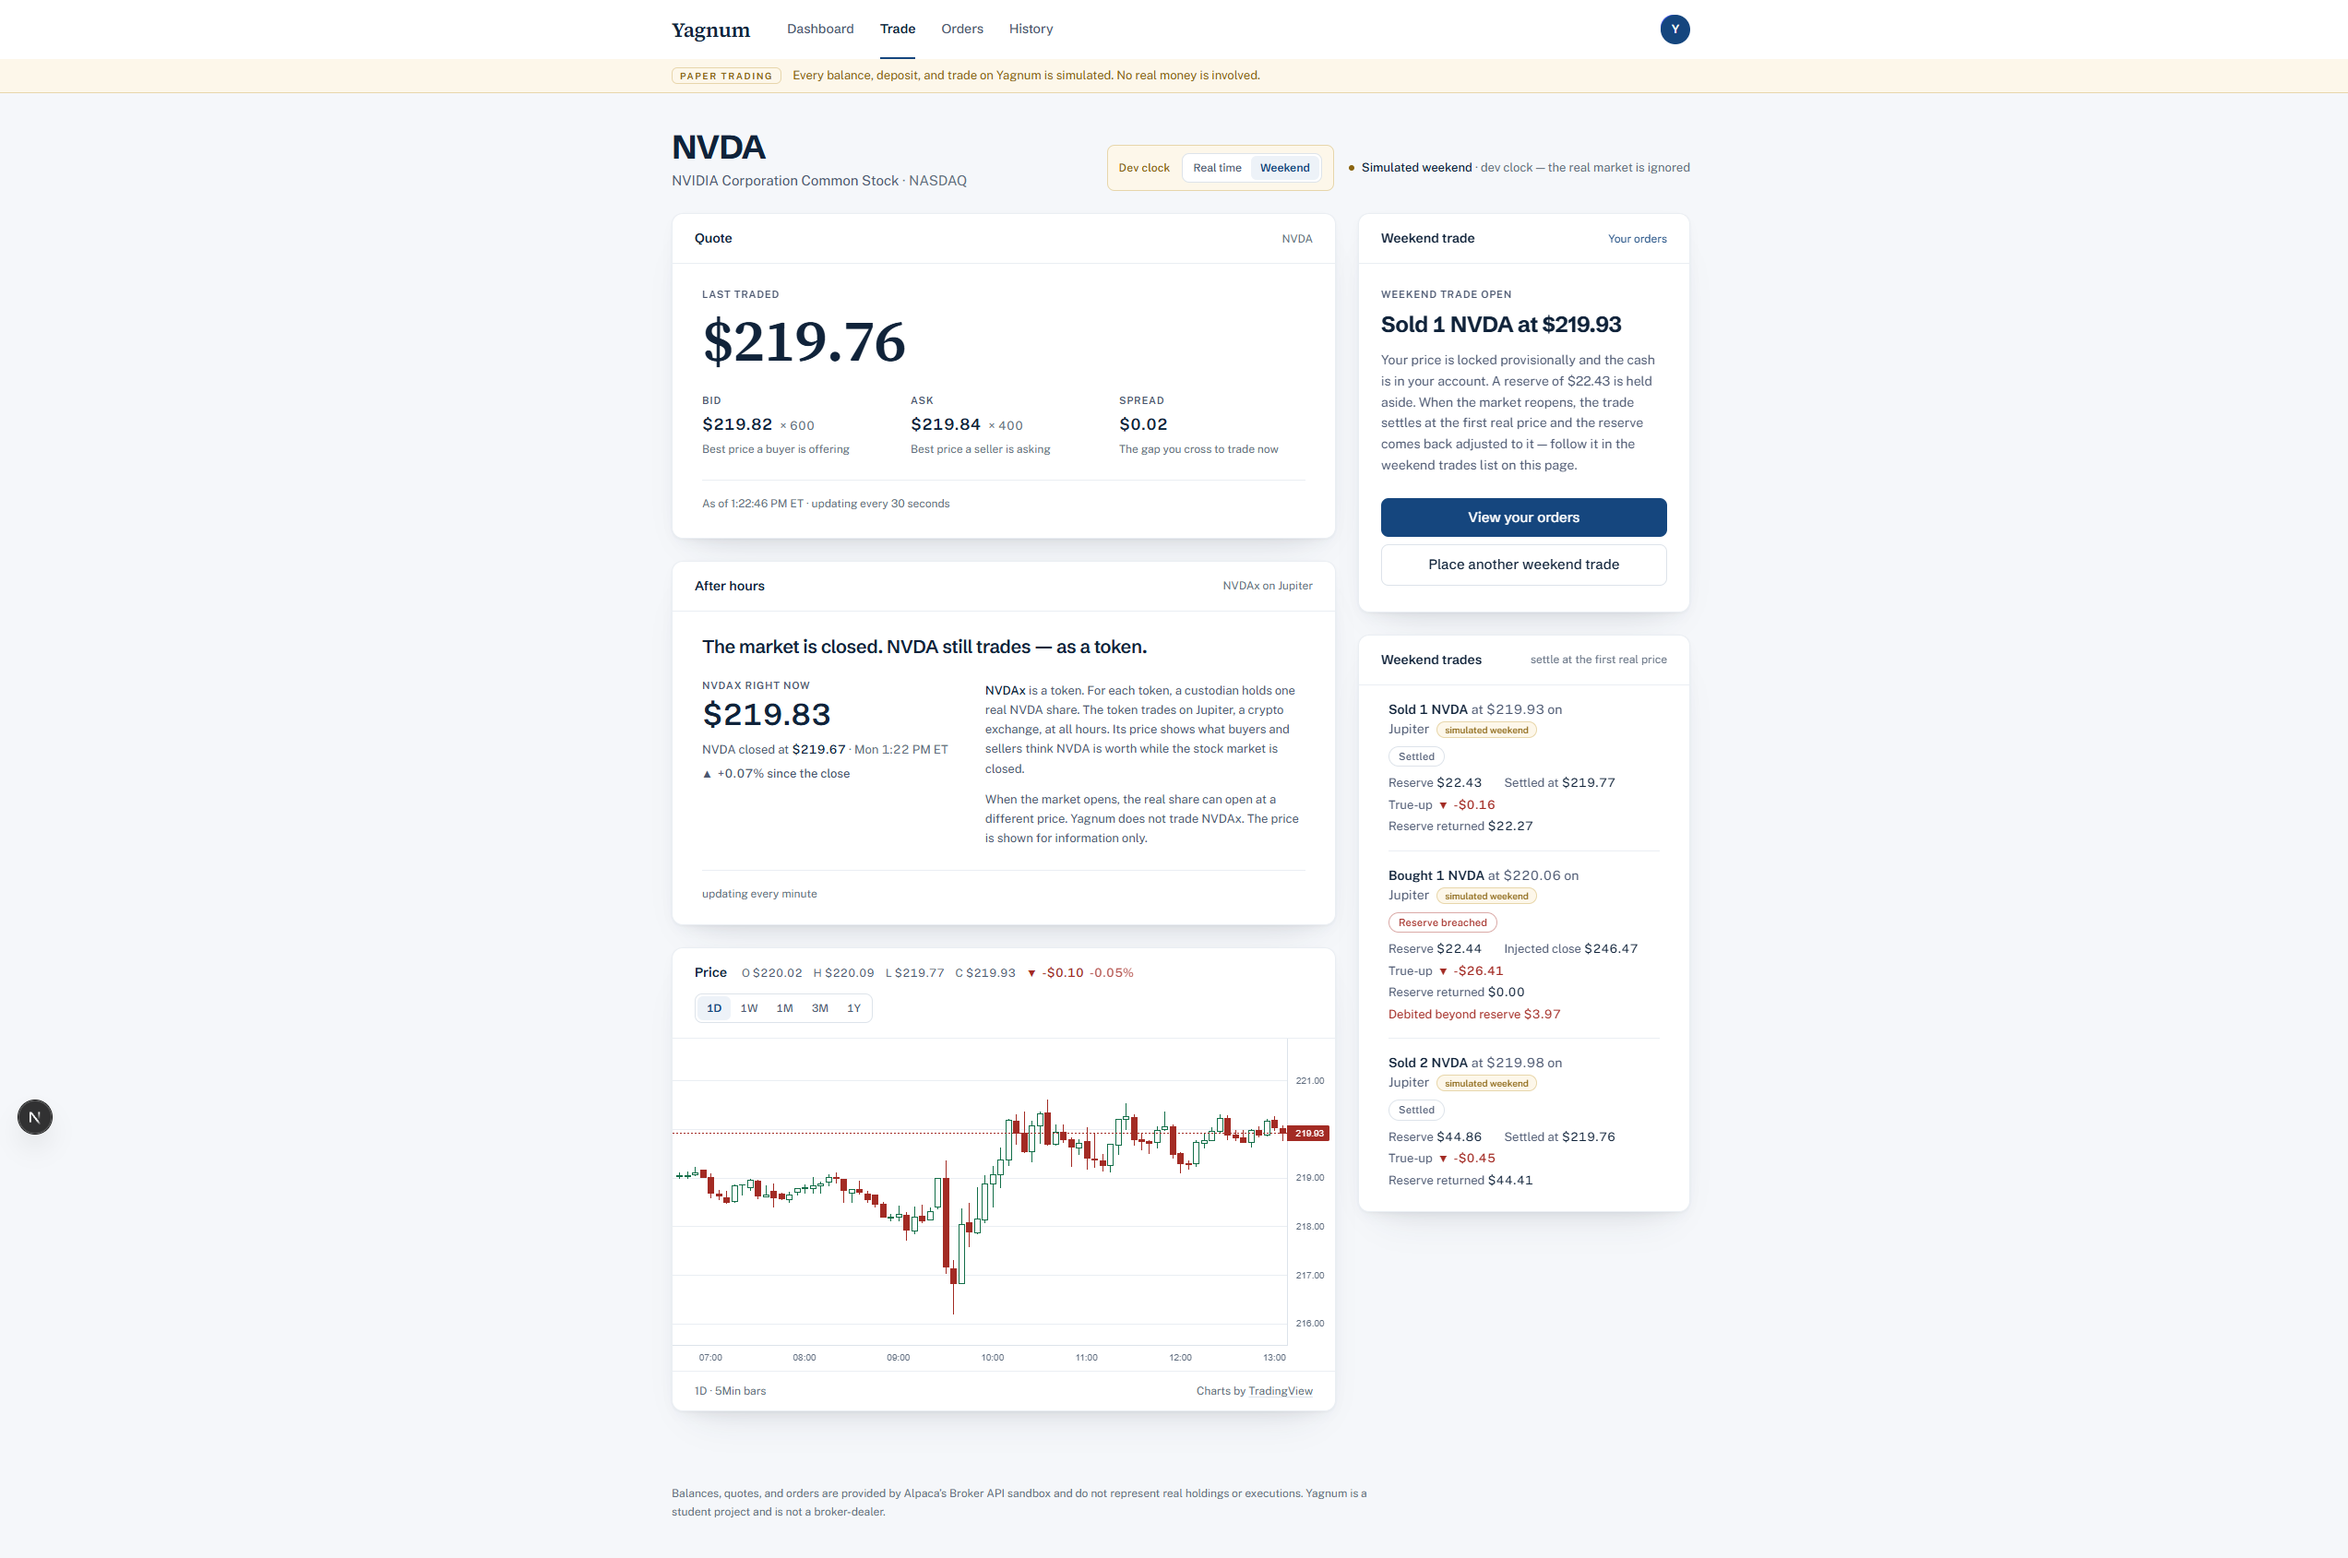
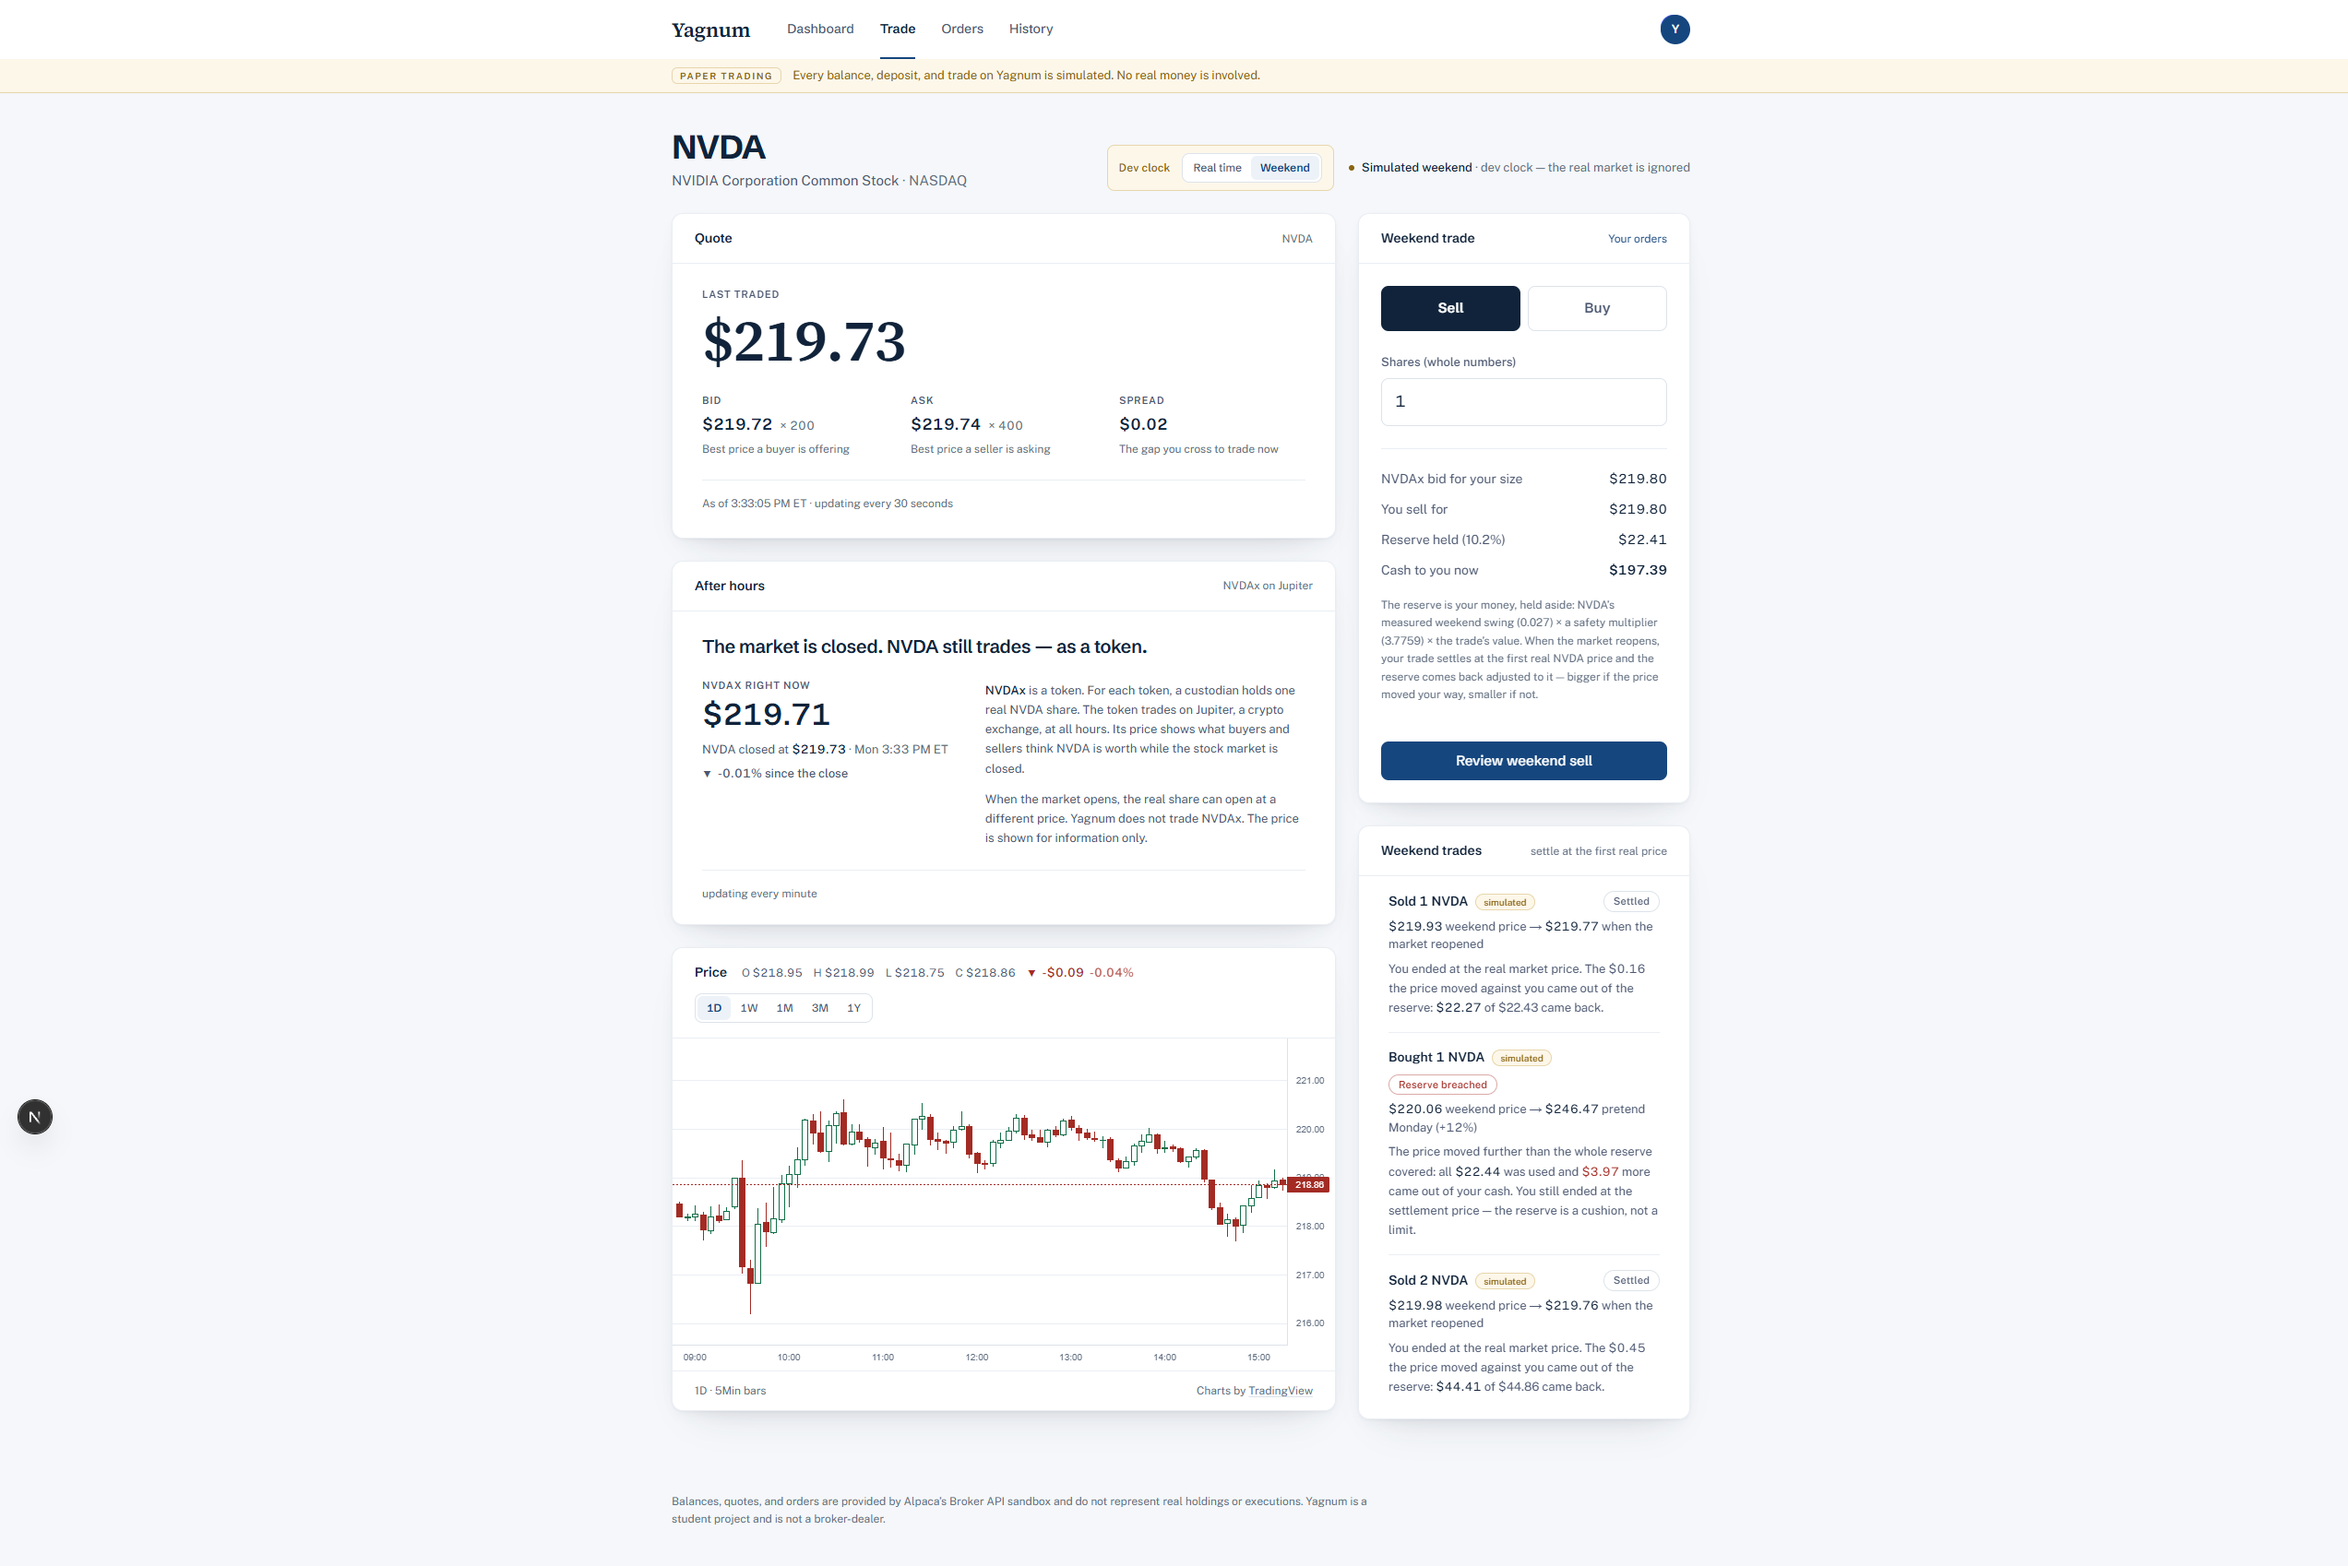
Weekend trades panel: jargon out, one sentence of plain outcome per trade
Each row is now three lines: what you did + state chip, the two prices
(weekend -> settled, with 'pretend Monday (+12%)' for injected closes),
and a sentence saying what happened to the money. 'True-up', 'escrow
returned' and 'shortfall' stay in the API; the reader gets 'The $0.16
the price moved against you came out of the reserve: $22.27 of $22.43
came back.'

diff --git a/app/web/src/components/weekend-trades.tsx b/app/web/src/components/weekend-trades.tsx
@@ -4,7 +4,6 @@ import { useActionState, useEffect, useState } from "react";
 import { useQuery, useQueryClient } from "@tanstack/react-query";
 
 import { buttonStyles } from "@/components/button";
-import { Delta } from "@/components/delta";
 import { Panel, PanelHead } from "@/components/panel";
 import { settleWeekendTrade, type SettleTradeState } from "@/lib/actions";
 import {
@@ -101,74 +100,136 @@ function TradeRow({
 
   return (
     <li className="py-4">
+      {/* Line 1: what you did, and where it stands. */}
       <div className="flex flex-wrap items-center justify-between gap-x-4 gap-y-2">
-        <p className="text-[14px] text-ink">
-          <span className="font-semibold">
-            {trade.side === "sell" ? "Sold" : "Bought"}{" "}
-            <span className="figure-nums">{formatQty(trade.qty)}</span>{" "}
-            {trade.symbol}
-          </span>{" "}
-          <span className="text-ink-soft">
-            at <span className="figure-nums">{formatUsd(trade.p_open)}</span> on
-            Jupiter
-          </span>
+        <p className="text-[14px] font-semibold text-ink">
+          {trade.side === "sell" ? "Sold" : "Bought"}{" "}
+          <span className="figure-nums">{formatQty(trade.qty)}</span> {trade.symbol}
           {trade.simulated ? (
             <span className="ml-2 rounded-full border border-stamp-rule bg-stamp-wash px-2 py-0.5 text-[10px] font-medium text-stamp">
-              simulated weekend
+              simulated
             </span>
           ) : null}
         </p>
         <StateChip trade={trade} />
       </div>
 
-      <dl className="mt-2 flex flex-wrap gap-x-6 gap-y-1 text-[13px] text-ink-soft">
-        <div>
-          <dt className="sr-only">Reserve</dt>
-          <dd>
-            Reserve <span className="figure-nums text-ink">{formatUsd(trade.reserve)}</span>
-          </dd>
-        </div>
+      {/* Line 2: the two prices that define the trade. */}
+      <p className="figure-nums mt-1.5 text-[13px] text-ink-soft">
+        <span className="text-ink">{formatUsd(trade.p_open)}</span> weekend price
         {trade.p_close ? (
-          <div>
-            <dt className="sr-only">Settled price</dt>
-            <dd>
-              {trade.settlement_mode === "injected" ? "Injected close" : "Settled at"}{" "}
-              <span className="figure-nums text-ink">{formatUsd(trade.p_close)}</span>
-            </dd>
-          </div>
-        ) : null}
-        {trade.true_up ? (
-          <div className="flex items-baseline gap-1.5">
-            <dt>True-up</dt>
-            <dd>
-              <Delta amount={toNumber(trade.true_up) ?? 0} />
-            </dd>
-          </div>
-        ) : null}
-        {trade.escrow_returned !== null && !open ? (
-          <div>
-            <dt className="sr-only">Escrow returned</dt>
-            <dd>
-              Reserve returned{" "}
-              <span className="figure-nums text-ink">
-                {formatUsd(trade.escrow_returned)}
-              </span>
-            </dd>
-          </div>
-        ) : null}
-        {trade.shortfall ? (
-          <div>
-            <dt className="sr-only">Shortfall</dt>
-            <dd className="text-loss">
-              Debited beyond reserve{" "}
-              <span className="figure-nums">{formatUsd(trade.shortfall)}</span>
-            </dd>
-          </div>
-        ) : null}
-      </dl>
+          <>
+            {" "}
+            <span aria-hidden>→</span>{" "}
+            <span className="text-ink">{formatUsd(trade.p_close)}</span>
+            {trade.settlement_mode === "injected"
+              ? ` pretend Monday (${formatGap(trade.injected_gap)})`
+              : " when the market reopened"}
+          </>
+        ) : (
+          <> · {formatUsd(trade.reserve)} reserve held</>
+        )}
+      </p>
+
+      {/* Line 3: the story of the money, in words. */}
+      <p className="mt-1.5 max-w-md text-[13px] leading-relaxed text-ink-soft">
+        <Outcome trade={trade} />
+      </p>
 
       {open ? <SettleControls trade={trade} session={session} /> : null}
     </li>
+  );
+}
+
+/** "+12%" from the stored fraction "0.12". */
+function formatGap(fraction: string | null): string {
+  const value = toNumber(fraction);
+  if (value === null) return "";
+  const pct = value * 100;
+  return `${pct > 0 ? "+" : ""}${pct.toFixed(pct % 1 === 0 ? 0 : 1)}%`;
+}
+
+/**
+ * One plain sentence per state. No engine vocabulary: "true-up",
+ * "escrow", and "shortfall" stay in the API; the reader gets what happened
+ * to their money and why.
+ */
+function Outcome({ trade }: { trade: WeekendTrade }) {
+  const reserve = formatUsd(trade.reserve);
+
+  if (trade.state === "provisional") {
+    return (
+      <>
+        Your price is locked and{" "}
+        {trade.side === "sell" ? "the cash is in your account" : "paid"}.{" "}
+        The {reserve} reserve waits for the market to reopen.
+      </>
+    );
+  }
+
+  if (trade.state === "awaiting_settlement") {
+    return (
+      <>
+        A real {trade.side} order is working at the broker
+        {trade.hedge_order_id ? (
+          <>
+            {" "}
+            (<span className="figure-nums tracking-[0.03em]">
+              {trade.hedge_order_id.slice(0, 8)}…
+            </span>)
+          </>
+        ) : null}
+        . When it fills, the trade settles at that price.
+      </>
+    );
+  }
+
+  if (trade.state === "breached") {
+    return (
+      <>
+        The price moved further than the whole reserve covered: all{" "}
+        <span className="figure-nums text-ink">{reserve}</span> was used and{" "}
+        <span className="figure-nums text-loss">{formatUsd(trade.shortfall)}</span>{" "}
+        more came out of your cash. You still ended at the settlement price —
+        the reserve is a cushion, not a limit.
+      </>
+    );
+  }
+
+  // Settled. Compare what came back with what was held: the difference IS
+  // the weekend's price move, and which side of the reserve it landed on.
+  const held = toNumber(trade.reserve) ?? 0;
+  const returned = toNumber(trade.escrow_returned) ?? 0;
+  const diff = returned - held;
+  const returnedText = (
+    <span className="figure-nums text-ink">{formatUsd(trade.escrow_returned)}</span>
+  );
+
+  if (Math.abs(diff) < 0.005) {
+    return (
+      <>
+        You ended at the real market price. The price barely moved, so your
+        whole {reserve} reserve came back.
+      </>
+    );
+  }
+  if (diff < 0) {
+    return (
+      <>
+        You ended at the real market price. The{" "}
+        <span className="figure-nums">{formatUsd(-diff)}</span> the price moved
+        against you came out of the reserve: {returnedText} of {reserve} came
+        back.
+      </>
+    );
+  }
+  return (
+    <>
+      You ended at the real market price — better than your weekend price. The
+      full {reserve} reserve came back plus the{" "}
+      <span className="figure-nums">{formatUsd(diff)}</span> the price moved
+      your way: {returnedText} in all.
+    </>
   );
 }
 
@@ -248,16 +309,6 @@ function SettleControls({
           </form>
         ) : null}
       </div>
-
-      {waiting && trade.hedge_order_id ? (
-        <p className="mt-2 text-[12px] text-ink-faint">
-          A real {trade.side} order is working at the broker (
-          <span className="figure-nums tracking-[0.03em]">
-            {trade.hedge_order_id.slice(0, 8)}…
-          </span>
-          ). Check again once the session can fill it.
-        </p>
-      ) : null}
 
       <p aria-live="polite" className="mt-2 min-h-4 text-[12px] text-loss">
         {state.status === "error" ? state.message : ""}
